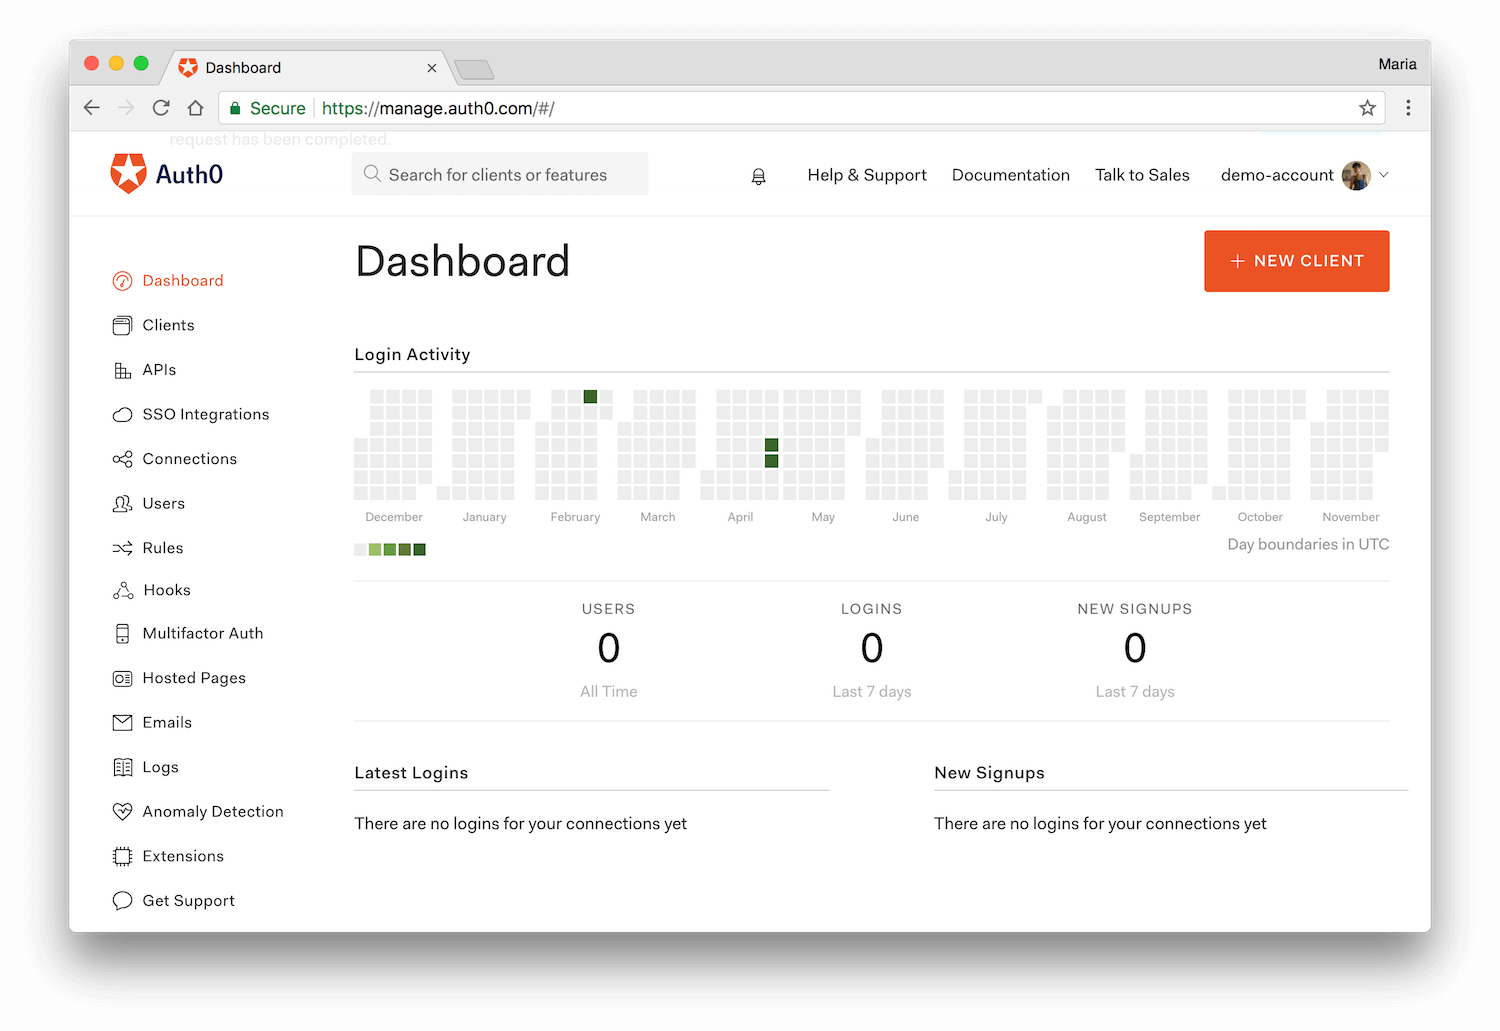
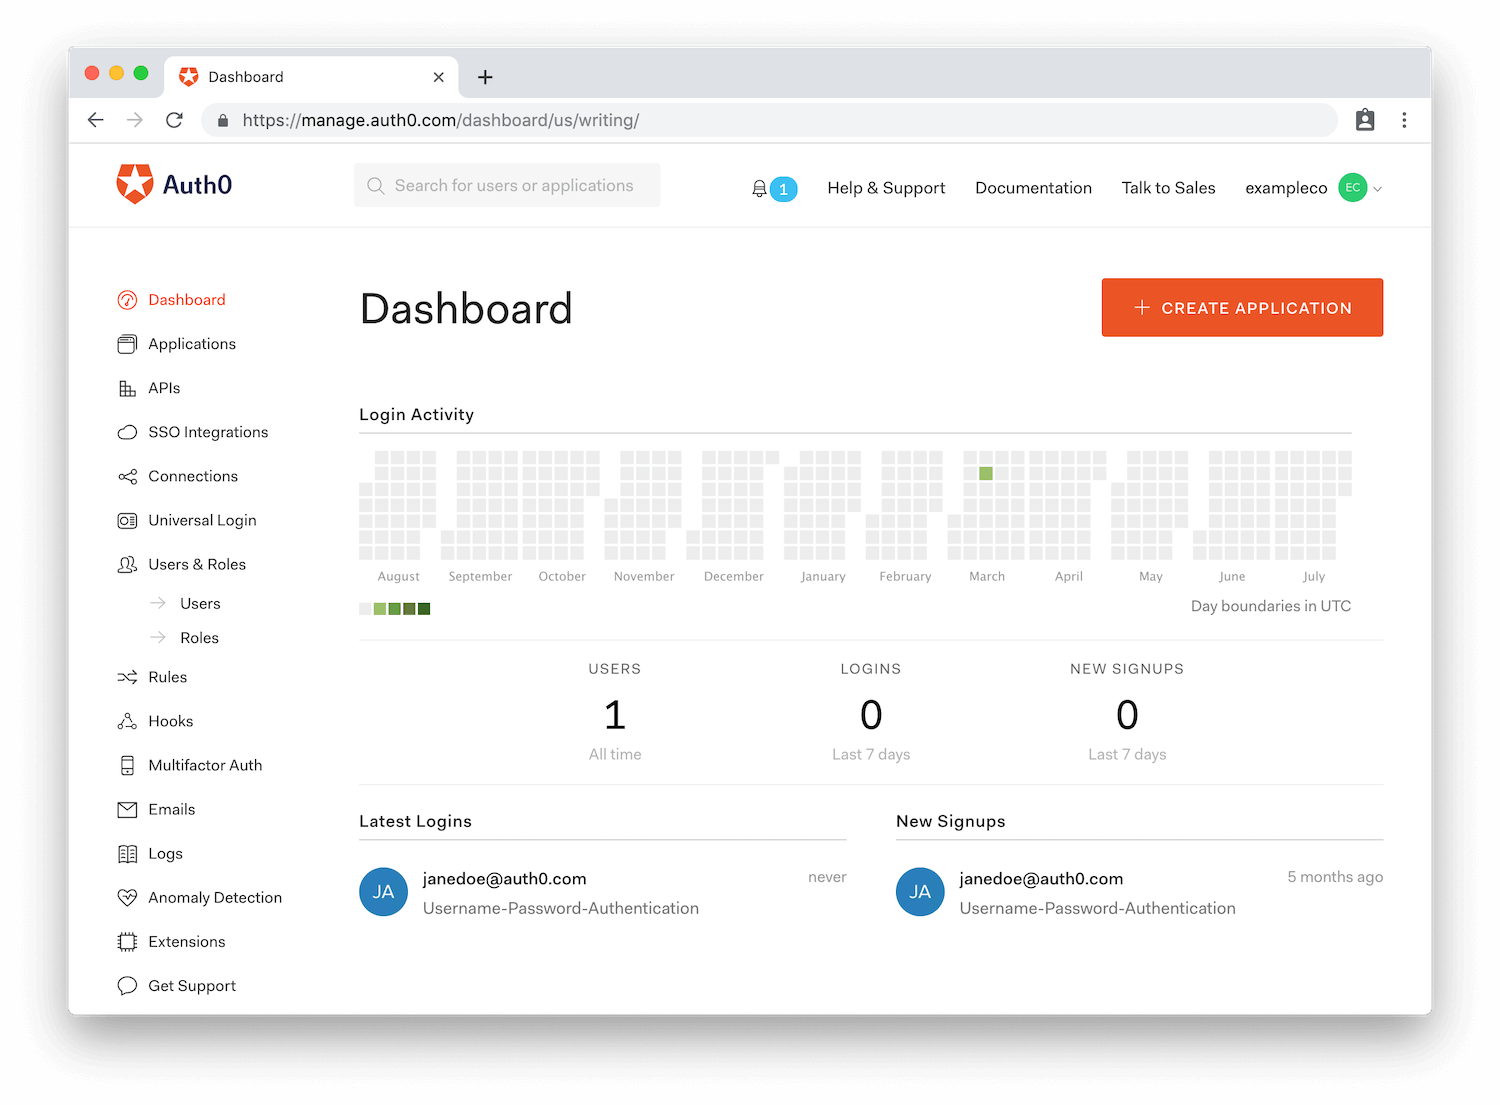
Update Dashboard Overview
Update Dashboard Overview doc

diff --git a/articles/getting-started/_list-processes.md b/articles/getting-started/_list-processes.md
@@ -1,31 +1,35 @@
 <% if (screen === "dashboard") { %>
   This is the dashboard home page. Here you can view statistics about your apps: the login activity for the past year, the logins and new signups for the past week, a list of the latest signups, and more.
   [More docs on the dashboard](/dashboard).
-<% } else if (screen === "clients") { %>
+<% } else if (screen === "applications") { %>
   Use this page to manage your applications. For every app of yours that you want to use Auth0, you should register an application here. You can create new applications, view your existing ones, review settings, enable connections, and more.
-  [More info on applications](/clients).
+  [More info on applications](/applications).
 <% } else if (screen === "apis") { %>
   Use this page to manage your APIs. Here you can register a new API of yours, that you want to secure with Auth0, and manage your existing ones.
-  [More info on APIs](/apis).
+  [More info on APIs](/api-auth).
 <% } else if (screen === "sso") { %>
   <dfn data-key="single-sign-on">Single Sign-on (SSO)</dfn> Integrations enable the use of external services for SSO. In this page you can see a list of the available external services that you can use, such as Office 365, Salesforce, and others. Here you can create a new SSO integration, find tutorials on how to configure it, and review and update the settings of a particular integration.
   [More info on SSO Integrations](/integrations/sso).
 <% } else if (screen === "connections") { %>
   Use this page to manage the identity providers that you use to login to your apps. There are four types:
-  - [Database](${manage_url}/#/connections/database): securely store and manage username / password credentials either in an Auth0 Database or in your own. To connect to an existing database you can use JavaScript scripts (we provide the templates) that run on Auth0's server on every authentication. Furthermore, you can migrate an existing legacy credentials database to Auth0 gradually as users authenticate (no password reset required). [More info on Database Connections](/connections/database).
-  - [Social](${manage_url}/#/connections/social): configure social connections like Facebook, Twitter, Github and others, so that you can let your users login with them. [More info on individual social providers](/identityproviders#social).
-  - [Enterprise](${manage_url}/#/connections/enterprise): configure Enterprise Connections like Active Directory, <dfn data-key="security-assertion-markup-language">SAML</dfn>, Office 365 and others so that you can let your users login with them. This way your users can use their enterprise credentials to login to your app. [More info on individual enterprise providers](/identityproviders#enterprise).
-  - [Passwordless](${manage_url}/#/connections/passwordless): let your users signup and login using one-time codes (delivered by email or SMS) or one-click links, instead of passwords. [More info on <dfn data-key="passwordless">[Passwordless](/connections/passwordless)</dfn>.
-<% } else if (screen === "users") { %>
-  This is where you manage your user's identities. In this page you can view your user's profiles, create new ones, perform password resets, block and delete users, and many more. [More info on User Management](/users).
+  - [Database](${manage_url}/#/connections/database): Securely store and manage username / password credentials either in an Auth0 Database or in your own. To connect to an existing database you can use JavaScript scripts (we provide the templates) that run on Auth0's server on every authentication. Furthermore, you can migrate an existing legacy credentials database to Auth0 gradually as users authenticate (no password reset required). [More info on Database Connections](/connections/database).
+  - [Social](${manage_url}/#/connections/social): Configure social connections like Facebook, Twitter, Github and others, so that you can let your users login with them. [More info on individual social providers](/identityproviders#social).
+  - [Enterprise](${manage_url}/#/connections/enterprise): Configure Enterprise Connections like Active Directory, <dfn data-key="security-assertion-markup-language">SAML</dfn>, Office 365 and others so that you can let your users login with them. This way your users can use their enterprise credentials to login to your app. [More info on individual enterprise providers](/identityproviders#enterprise).
+  - [Passwordless](${manage_url}/#/connections/passwordless): Let your users signup and login using one-time codes (delivered by email or SMS) or one-click links, instead of passwords. [More info on Passwordless](/connections/passwordless).
+  <% } else if (screen === "universal-login") { %>
+  This is where you can create a beautiful universal login page where you can redirect to authenticate your users, customize the look and feel o your login page with CSS and HTML, and implement SSO in your applications with the flip of a switch. [More info on Universal Login](/universal-login).
+<% } else if (screen === "users-roles") { %>
+  This is where you manage your user's identities and permissions. 
+  - [Users](${manage_url}/#/users): View your user's profiles, create new ones, perform password resets, block and delete users, and many more. [More info on Users](/users).
+  - [Roles](${manage_url}/#/roles): Create and manage roles for your applications. Roles contain collection of permissions and can be assigned to users. [More info on Roles](/authorization/guides/manage-roles).
+  
+  - [Roles](${manage_url}/#/roles): Create and manage roles for your applications. Roles contain collections of permissions and can be assigned to users. [More info on Roles](/authorization/guides/manage-roles).
 <% } else if (screen === "rules") { %>
   Here you can configure custom JavaScript snippets that are executed in Auth0 as part of the transaction every time a user authenticates to your application. You can call external APIs, filter which users can login to your application, use a whitelist, geolocated access or anything. [More information on Rules](/rules).
 <% } else if (screen === "hooks") { %>
   Here you can configure Node.js code that is executed against extensibility points (which are comparable to webhooks that come with a server). This way you can customize the behavior of Auth0 when you use Database Connections. [More info on Hooks](/hooks).
 <% } else if (screen === "mfa") { %>
   Use this page to configure <dfn data-key="multifactor-authentication">multi-factor authentication (MFA)</dfn> for your apps. This way you can add an additional factor to conventional logins to prevent unauthorized access. You can use Push Notifications, SMS or both. [More info on MFA](/multifactor-authentication).
-<% } else if (screen === "hlp") { %>
-  Here you can create a login page where you can redirect to authenticate your users. The page can be customized with HTML and CSS and will be hosted by Auth0. By using centralized authentication, your app will be more secure and you will be able to implement SSO very easily. Other than the login, you can also add pages for the Password Reset process, MFA, and error pages. [More info on Hosted Pages](/hosted-pages).
 <% } else if (screen === "emails") { %>
   Here you can configure the email templates for verification emails, welcome emails, change password emails, and more. You can also configure a custom SMTP email provider which is a requirement for production purposes. Auth0 does offer a built-in email infrastructure but it should be used for testing purposes only. [More info on emails](/email).
 <% } else if (screen === "logs") { %>

diff --git a/articles/getting-started/dashboard-overview.md b/articles/getting-started/dashboard-overview.md
@@ -21,7 +21,7 @@ It consists of several sections which you can navigate using the sidebar menu on
 
 ## Configure your implementation
 
-The matrix that follows offers a brief overview of the different dashboard screens and what you can do on each.
+The following table contains a brief overview of the different dashboard pages and what you can do on each.
 
 <table class="table">
     <thead>
@@ -37,7 +37,7 @@ The matrix that follows offers a brief overview of the different dashboard scree
         </tr>
         <tr>
             <th><i class="icon icon-budicon-375"></i>&nbsp;Applications</th>
-            <td colspan="3"><%= include('./_list-processes', {"screen": "clients"}) %></td>
+            <td colspan="3"><%= include('./_list-processes', {"screen": "applications"}) %></td>
         </tr>
         <tr>
             <th><i class="icon icon-budicon-546"></i>&nbsp;APIs</th>
@@ -52,8 +52,12 @@ The matrix that follows offers a brief overview of the different dashboard scree
             <td colspan="3"><%= include('./_list-processes', {"screen": "connections"}) %></td>
         </tr>
         <tr>
-            <th><i class="icon icon-budicon-292"></i>&nbsp;Users</th>
-            <td colspan="3"><%= include('./_list-processes', {"screen": "users"}) %></td>
+            <th><i class="icon icon-budicon-725"></i>&nbsp;Universal Login</th>
+            <td colspan="3"><%= include('./_list-processes', {"screen": "universal-login"}) %></td>
+        </tr>
+        <tr>
+            <th><i class="icon icon-budicon-292"></i>&nbsp;Users & Roles</th>
+            <td colspan="3"><%= include('./_list-processes', {"screen": "users-roles"}) %></td>
         </tr>
         <tr>
             <th><i class="icon icon-budicon-173"></i>&nbsp;Rules</th>
@@ -66,10 +70,6 @@ The matrix that follows offers a brief overview of the different dashboard scree
         <tr>
             <th><i class="icon icon-budicon-243"></i>&nbsp;Multi-factor Auth</th>
             <td colspan="3"><%= include('./_list-processes', {"screen": "mfa"}) %></td>
-        </tr>
-        <tr>
-            <th><i class="icon icon-budicon-725"></i>&nbsp;Hosted Pages</th>
-            <td colspan="3"><%= include('./_list-processes', {"screen": "hlp"}) %></td>
         </tr>
         <tr>
             <th><i class="icon icon-budicon-778"></i>&nbsp;Emails</th>
